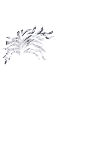
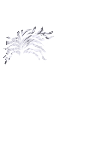
Реву

diff --git a/kns_files/func.js b/kns_files/func.js
@@ -1,7 +1,7 @@
 var Func = {folders: {}};
 Func.folders.static = ["costume", "dirt", "wound", "drown", "poisoning", "disease"];
 Func.folders.animationCode = ["base", "eyes", "forepaw_left", "forepaw_right", "body", "head", "tail", "ear_left", "ear_right", "breast", "tuft", "neck", "belly", "hindpaw_left", "hindpaw_right", "base_tail", "base_mane", "base_ears", "base_hair", "eye_right", "mane", "hair", "whisker", "nose"];
-Func.folders.animationLayers = ["base", "hindpaw_left", "hindpaw_right", "forepaw_left", "forepaw_right", "body", "belly", "breast", "neck", "base_mane", "mane", "head",  "base_hair", "hair", "tuft", "base_ears", "ear_left", "ear_right", "nose", "eyes", "eye_right", "whisker", "base_tail", "tail", "costume", "dirt", "wound", "drown", "poisoning", "disease"];
+Func.folders.animationLayers = ["base", "hindpaw_left", "hindpaw_right", "forepaw_left", "forepaw_right", "body", "belly", "breast", "neck", "head", "base_mane", "mane", "base_hair", "hair", "tuft", "base_ears", "ear_left", "ear_right", "nose", "eyes", "eye_right", "whisker", "base_tail", "tail", "costume", "dirt", "wound", "drown", "poisoning", "disease"];
 Func.type = {tail: "base_tail", mane: "base_mane", hair: "base_hair", ear_left: "base_ears", ear_right: "base_ears", tuft: "base_ears"};
 
 //"base", "hindpaw_left", "hindpaw_right", "body", "forepaw_left", "forepaw_right", "belly", "head", "breast", "neck", "base_mane", "mane", "tuft", "base_ears", "ear_left", "ear_right", "base_hair", "hair", "base_tail", "tail", "eyes", "eye_right", "costume", "dirt", "wound", "drown", "poisoning", "disease"
